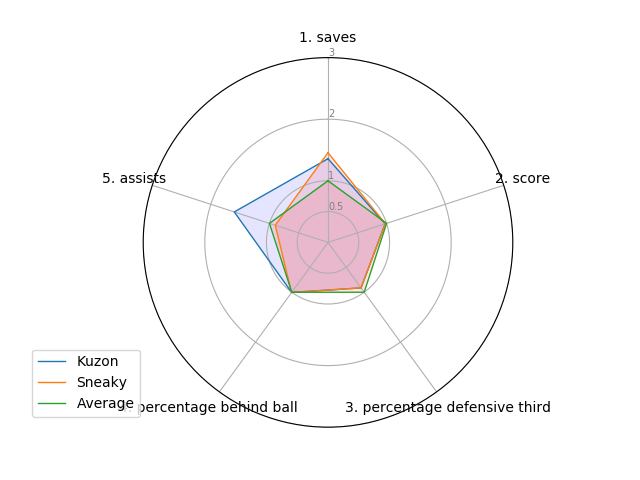
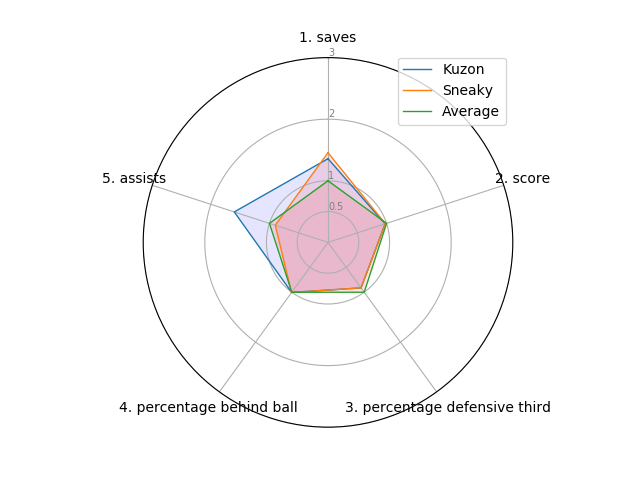
Auto stash before merge of "master" and "origin/master"

Changed region(s): [[0.625, 0.125, 0.7812, 0.2812], [0.0625, 0.7188, 0.2188, 0.875]]

diff --git a/templates/index_C.html b/templates/index_C.html
@@ -19,51 +19,41 @@
     </div>
   </div>
   <div class="bargraphcontainer">
+    <div class="row">
         <div class="col-md-6">
-
           <form method="post">
-          <input class = "barbuttons" type="submit" name="sneakylastgame" value="sneakylastgame">
-          <input class = "barbuttons" type="submit" name="kuzonlastgame" value="kuzonlastgame">
-          <input class = "barbuttons" type="submit" name="sneakyandkuzon" value="sneakyandkuzon">
-          <input class = "barbuttons" type="submit" name="kuzonwinsandlosses" value="kuzonwinsandlosses">
-          <input class = "barbuttons" type="submit" name="sneakywinsandlosses" value="sneakywinsandlosses">
-          <input class = "barbuttons" type="submit" name="EverystatKuzon" value="EverystatKuzon">
-          <input class = "barbuttons" type="submit" name="EverystatSneaky" value="EverystatSneaky">
+            <input class = "barbuttons" type="submit" name="sneakylastgame" value="sneakylastgame">
+            <input class = "barbuttons" type="submit" name="kuzonlastgame" value="kuzonlastgame">
+            <input class = "barbuttons" type="submit" name="sneakyandkuzon" value="sneakyandkuzon">
+            <input class = "barbuttons" type="submit" name="kuzonwinsandlosses" value="kuzonwinsandlosses">
+            <input class = "barbuttons" type="submit" name="sneakywinsandlosses" value="sneakywinsandlosses">
+            <input class = "barbuttons" type="submit" name="EverystatKuzon" value="EverystatKuzon">
+            <input class = "barbuttons" type="submit" name="EverystatSneaky" value="EverystatSneaky">
           </form>
-
           <p>{{ data }}</p>
-
           <!--<p>{{data}}</p>-->
-
           <p> Speed comparison </p>
             <div class="chart" id="bargraph">
-              </div>
+            </div>
 
-               <p> time in air comparison </p>
-              <div class="chart" id="bargraph2">
-                </div>
+            <p> time in air comparison </p>
+            <div class="chart" id="bargraph2">
+            </div>
 
-                 <p> defensive stats comparison </p>
-                <div class="chart" id="bargraph3">
-                  </div>
-
-
-              <script>
-
-                  var graph1 = {{plot1 | safe}};
-                  var graph2 = {{plot2| safe}};
-                  var graph3 = {{plot3| safe}};
-
-
-                  Plotly.plot('bargraph',graph1,{});
-                  Plotly.plot('bargraph2', graph2,{});
-                  Plotly.plot('bargraph3', graph3,{});
-              </script>
-
-
-
+            <p> defensive stats comparison </p>
+            <div class="chart" id="bargraph3">
+            </div>
+            <script>
+                var graph1 = {{plot1 | safe}};
+                var graph2 = {{plot2| safe}};
+                var graph3 = {{plot3| safe}};
+                Plotly.plot('bargraph',graph1,{});
+                Plotly.plot('bargraph2', graph2,{});
+                Plotly.plot('bargraph3', graph3,{});
+            </script>
             </div>
           </div>
+      </div>
 </div>
 
 

diff --git a/static/style.css b/static/style.css
@@ -133,24 +133,7 @@ h4 {
 .tab button.active {
   background-color: #ccc;
 }
-.barbuttons {
-  background-color: inherit;
-  color: black;
-  padding: 10px 12px;
-  transition: 0.3s;
-}
-.barbuttons:hover {
-  background-color: #ddd;
-}
-.barbuttons.active {
-  background-color: #ddd;
-}
-.bargraphcontainer {
-  display:flex;
-  width: 100%;
-  justify-content: center;
-  margin-top: 20px;
-}
+
 /* Style the tab content */
 .tabcontent {
   display: none;

diff --git a/app.py b/app.py
@@ -986,7 +986,7 @@ def create_star_plot(var1, var2, var3,var4,var5, name):
     ax.fill(angles, values, 'r', alpha=0.1)
 
     # Add legend
-    plt.legend(loc='lower right', bbox_to_anchor=(0.01, 0.01))
+    plt.legend(loc='lower right', bbox_to_anchor=(1.0, 0.8))
     plt.savefig("static/images/plot" + str(name) + ".png")
     plt.clf()
 
